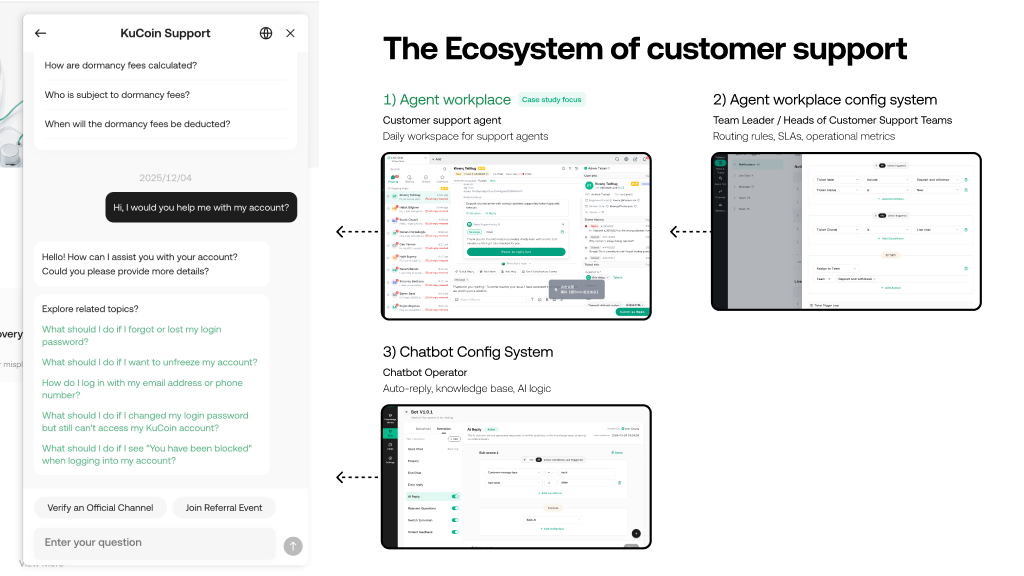
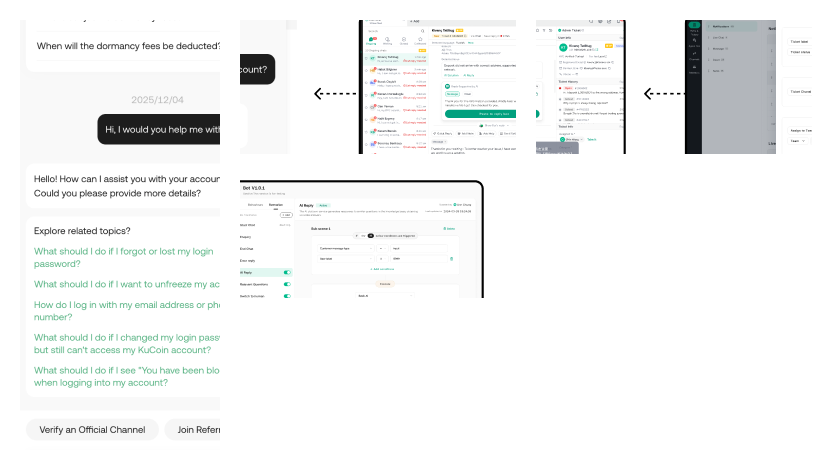
Crop internal-system images to UI-only visuals and remove duplicate slide text.
Strip headings, bullets, and captions from case study screenshots so the page copy carries the narrative while images show interfaces only.

diff --git a/internal-system.html b/internal-system.html
@@ -248,7 +248,7 @@
                 <p>// Scope: Agent workplace redesign · AI augmentation · journey optimisation</p>
             </div>
             <div class="title-img">
-                <img src="resources/images-internal-system/cs_workspace_overview.png" alt="Customer Agent Workplace — live chat workspace with AI reply suggestions and consolidated user info panels">
+                <img src="resources/images-internal-system/cs_workspace_overview.png?v=2" alt="Customer Agent Workplace — live chat workspace with AI reply suggestions and consolidated user info panels">
             </div>
         </div>
     </div>
@@ -273,7 +273,7 @@
             <li>Led the redesign under <b>tight timelines and limited staffing</b></li>
         </ul>
 
-        <div class="cs-shot"><img src="resources/images-internal-system/cs_ecosystem.png" alt="KuCoin customer support ecosystem — Agent Workplace, Config System, and Chatbot Config powering the KuCoin Support chat experience"></div>
+        <div class="cs-shot"><img src="resources/images-internal-system/cs_ecosystem.png?v=2" alt="KuCoin customer support ecosystem — Agent Workplace, Config System, and Chatbot Config"></div>
         <p class="cs-figcap">The KuCoin customer support ecosystem: three interconnected back-end systems power the KuCoin Support chat experience. This case study focuses on the Agent Workplace.</p>
 
 
@@ -290,7 +290,7 @@
             <li>Enable <b>deeper integration</b> with internal risk, KYC, trading, and account systems</li>
         </ul>
 
-        <div class="cs-shot"><img src="resources/images-internal-system/slide_5.png" alt="Before: Ada config system and Zendesk agent workplace that the in-house system replaced"></div>
+        <div class="cs-shot"><img src="resources/images-internal-system/slide_5.png?v=2" alt="Ada and Zendesk — legacy third-party tools replaced by KuCoin's in-house system"></div>
         <p class="cs-figcap">The legacy stack: Ada for chatbot configuration and Zendesk as the agent workplace — both replaced by purpose-built internal tools.</p>
 
 
@@ -374,7 +374,7 @@
             </div>
         </div>
 
-        <div class="cs-shot"><img src="resources/images-internal-system/slide_8.png" alt="AI Reply Suggestions and AI Summary Panel — contextual AI assistance in the agent workspace"></div>
+        <div class="cs-shot"><img src="resources/images-internal-system/slide_8.png?v=2" alt="AI Reply Suggestions and AI Summary Panel UI in the agent workspace"></div>
         <p class="cs-figcap">AI Reply Suggestions surface draft responses in the chat area; the AI Summary Panel consolidates emotion, sensitivity flags, category, and recommended reply at the top of each ticket.</p>
 
 
@@ -418,7 +418,7 @@
             <li>Consolidated findings into three structural UX blockers</li>
         </ul>
 
-        <div class="cs-shot"><img src="resources/images-internal-system/slide_10.png" alt="Live observation session — annotated MVP prototype showing agent confusion points"></div>
+        <div class="cs-shot"><img src="resources/images-internal-system/slide_10.png?v=2" alt="Annotated MVP prototype from live observation sessions"></div>
         <p class="cs-figcap">Observation notes mapped directly onto the MVP prototype — each annotation became a targeted redesign.</p>
 
 
@@ -435,7 +435,7 @@
             <li>Disabled the chat box until the ticket was claimed — clarity through constraints</li>
             <li>Significantly reduced steps and eliminated entry confusion</li>
         </ul>
-        <div class="cs-shot"><img src="resources/images-internal-system/cs_redesign_claim_flow.png" alt="Before and after: ticket claim flow moved to main input area"></div>
+        <div class="cs-shot"><img src="resources/images-internal-system/cs_redesign_claim_flow.png?v=2" alt="Before and after: ticket claim flow in the agent workspace"></div>
         <p class="cs-figcap">Before: claim action buried in a side panel. After: "Take the ticket to start reply" blocks the input until claimed.</p>
 
         <h5>Finding 2 — Disconnected information</h5>
@@ -446,7 +446,7 @@
             <li>Each section partially visible with collapsible sections for quick scanning</li>
             <li>Reduced cognitive load and context-switching time</li>
         </ul>
-        <div class="cs-shot"><img src="resources/images-internal-system/cs_redesign_info_arch.png" alt="Before and after: 3-panel information column replacing fragmented tab layout"></div>
+        <div class="cs-shot"><img src="resources/images-internal-system/cs_redesign_info_arch.png?v=2" alt="Redesigned agent workspace with consolidated user info and ticket history panels"></div>
         <p class="cs-figcap">Before: fragmented tabs. After: User Info, Ticket History, and Ticket Info stacked in a scannable right column.</p>
 
         <h5>Finding 3 — Hidden high-frequency tools</h5>
@@ -456,7 +456,7 @@
             <li>Moved them above the input field</li>
             <li>Increased visibility for frequently used tools</li>
         </ul>
-        <div class="cs-shot"><img src="resources/images-internal-system/cs_redesign_tools_visibility.png" alt="Before and after: hidden tool icons replaced with labelled, prominent action buttons"></div>
+        <div class="cs-shot"><img src="resources/images-internal-system/cs_redesign_tools_visibility.png?v=2" alt="Before and after: tool buttons surfaced above the reply area"></div>
         <p class="cs-figcap">Before: invisible icon-only tools. After: labelled action buttons positioned above the reply area.</p>
 
         <h5>Validation before development</h5>
@@ -481,8 +481,6 @@
             <li><b>Less confusion</b> in the claim-ticket and info-scanning flows</li>
             <li>Redesign became the foundation for future iteration across the CS workspace</li>
         </ul>
-
-        <div class="cs-shot"><img src="resources/images-internal-system/slide_18.png" alt="Follow-up and impact — pilot testing results and rollout preparation"></div>
 
 
         <!-- ── SECTION 8: REFLECTION ──────────────────────────── -->
